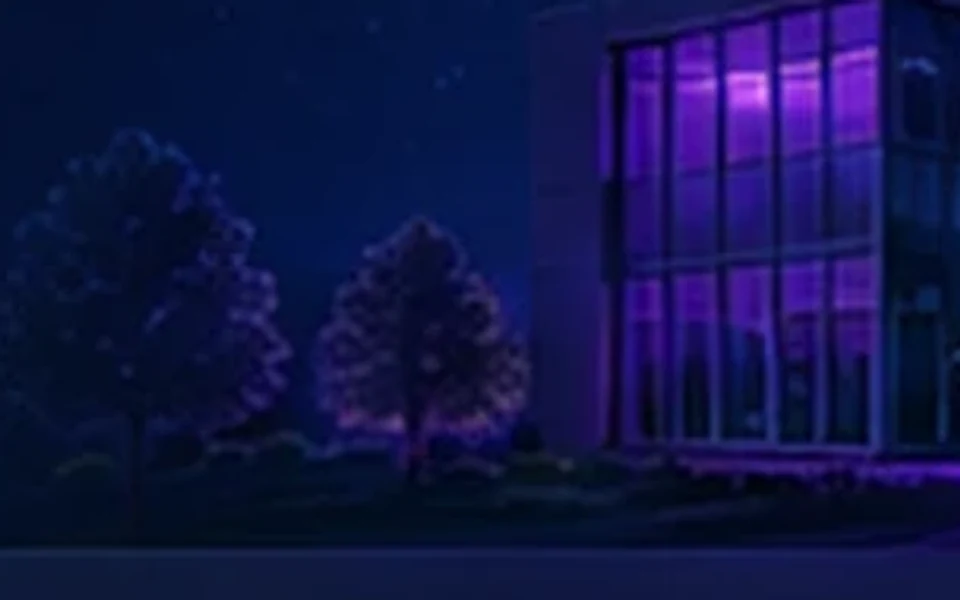
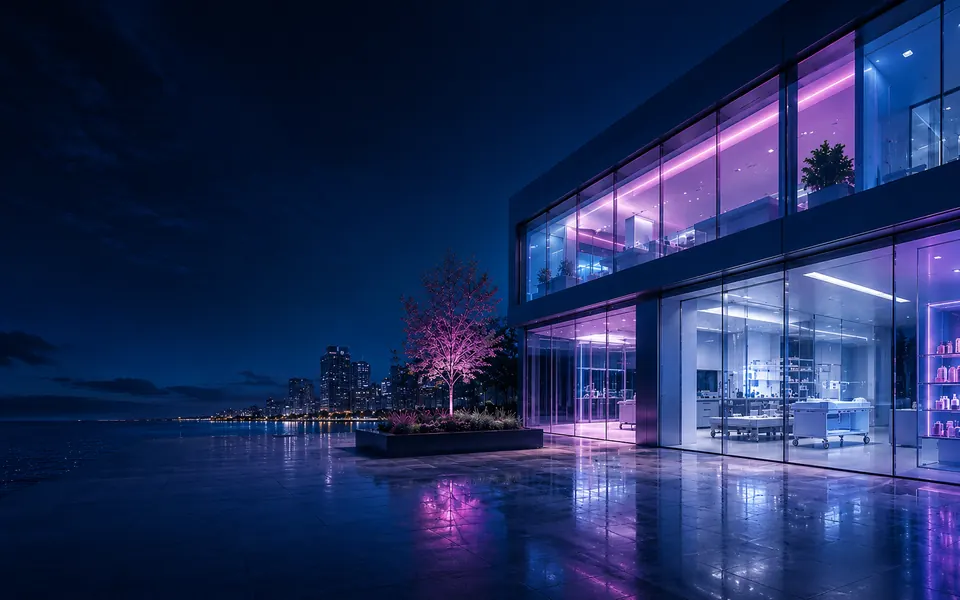
About header: swap in new building/showroom visual + retune
- Replace about-header light/dark webp (960x600) with crisp seaside
  building/showroom art; building anchored right, water/sky left.
- Retune About PageHeaderVisual for the sharper source: lighter filters
  (was built for a washed image), opacity light .58 / dark .8,
  object-position 80% 45%, tint .06. Left stays clean for HTML text.
- Catalog, Categories, Contact untouched.

diff --git a/app/[lang]/about/page.jsx b/app/[lang]/about/page.jsx
@@ -34,7 +34,7 @@ export default function AboutPage({ params }) {
     <div className="bg-canvas-soft">
       {/* Hero */}
       <section className="relative overflow-hidden bg-canvas-soft border-b border-line">
-        <PageHeaderVisual name="about-header" light={0.5} dark={0.6} objectPosition="75% 30%" lightFilter="saturate(1.45) contrast(1.3)" darkFilter="saturate(1.2) contrast(1.12) brightness(1.06)" tint={0.12} />
+        <PageHeaderVisual name="about-header" light={0.58} dark={0.8} objectPosition="80% 45%" lightFilter="saturate(1.1) contrast(1.06)" darkFilter="saturate(1.06)" tint={0.06} />
         <Aurora />
         <div
           className="absolute inset-0 opacity-[0.5] pointer-events-none"